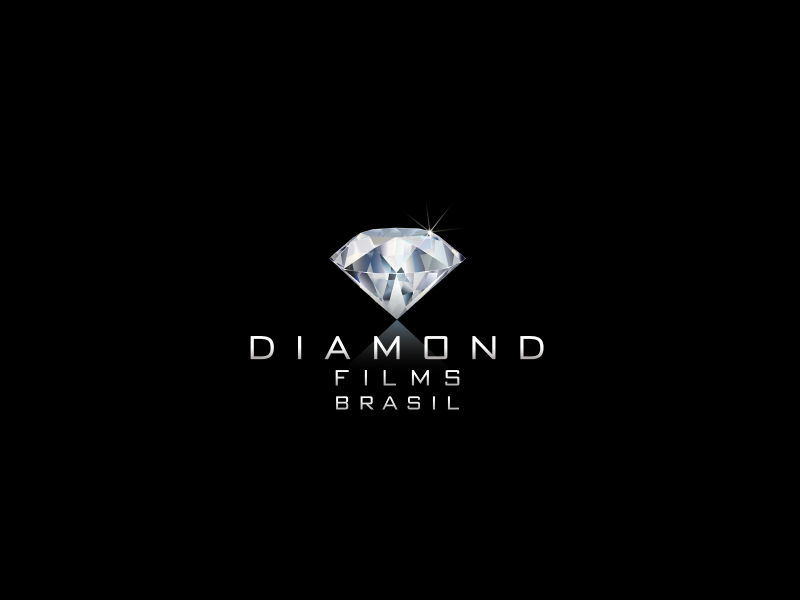
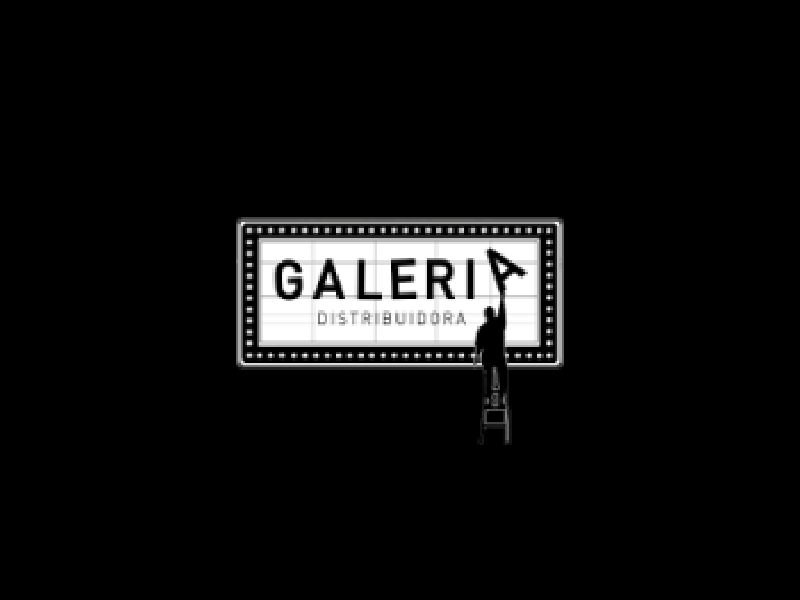
feat: update buid

Changed region(s): [[0.2812, 0.36, 0.7188, 0.75]]

diff --git a/utils/lib/gtag/index.ts b/utils/lib/gtag/index.ts
@@ -10,7 +10,7 @@ export const useGtag = () => {
       event: 'home',
       user_id_anonymous: id,
       city_id: cidade,
-      page_url: 'https://diamondfilms.com.br/' + page_url,
+      page_url: 'https://galeriadistribuidora.com.br/' + page_url,
       page_title: title,
       property_title: 'Site'
     })
@@ -26,7 +26,7 @@ export const useGtag = () => {
       event: 'ficha_filme',
       city_id: cidade,
       user_id_anonymous: id,
-      page_url: 'https://diamondfilms.com.br/' + page_url,
+      page_url: 'https://galeriadistribuidora.com.br/' + page_url,
       page_title: 'Galeria Distribuidora - ' + title,
       property_title: 'Site',
       pagina_filme: 'Hub',
@@ -46,7 +46,7 @@ export const useGtag = () => {
       event: 'banner_click',
       city_id: cidade,
       user_id_anonymous: id,
-      page_url: 'https://diamondfilms.com.br/' + page_url,
+      page_url: 'https://galeriadistribuidora.com.br/' + page_url,
       page_title: 'Galeria Distribuidora - ' + title,
       property_title: 'Site',
       banner_click_page: 'home',
@@ -69,7 +69,7 @@ export const useGtag = () => {
       event: 'movie_tickets',
       city_id: cidade,
       user_id_anonymous: id,
-      page_url: 'https://diamondfilms.com.br/' + page_url,
+      page_url: 'https://galeriadistribuidora.com.br/' + page_url,
       page_title: title,
       property_title: 'Site',
       moviename: title,
@@ -94,7 +94,7 @@ export const useGtag = () => {
       event: 'movie_stream',
       city_id: cidade,
       user_id_anonymous: id,
-      page_url: 'https://diamondfilms.com.br/' + page_url,
+      page_url: 'https://galeriadistribuidora.com.br/' + page_url,
       page_title: title,
       property_title: 'Site',
       moviename: title,
@@ -118,7 +118,7 @@ export const useGtag = () => {
       event: 'newsletter_subscribe',
       city_id: cidade,
       user_id_anonymous: id,
-      page_url: 'https://diamondfilms.com.br/' + page_url,
+      page_url: 'https://galeriadistribuidora.com.br/' + page_url,
       page_title: title,
       property_title: 'Site',
       pagina_filme: pagina_filme,
@@ -142,7 +142,7 @@ export const useGtag = () => {
       event: 'movie_subscribe',
       city_id: cidade,
       user_id_anonymous: id,
-      page_url: 'https://diamondfilms.com.br/' + page_url,
+      page_url: 'https://galeriadistribuidora.com.br/' + page_url,
       page_title: title,
       property_title: 'Site',
       pagina_filme: pagina_filme,
@@ -159,7 +159,7 @@ export const useGtag = () => {
       event: 'contato',
       city_id: cidade,
       user_id_anonymous: id,
-      page_url: 'https://diamondfilms.com.br/' + page_url,
+      page_url: 'https://galeriadistribuidora.com.br/' + page_url,
       page_title: title,
       property_title: 'Site'
     })
@@ -176,7 +176,7 @@ export const useGtag = () => {
       event: 'movie_select',
       city_id: cidade,
       user_id_anonymous: id,
-      page_url: 'https://diamondfilms.com.br/' + page_url,
+      page_url: 'https://galeriadistribuidora.com.br/' + page_url,
       page_title: 'Galeria Distribuidora - ' + 'Buscar',
       property_title: 'Site',
       moviename: title,
@@ -197,7 +197,7 @@ export const useGtag = () => {
       event: 'movie_filter',
       city_id: cidade,
       user_id_anonymous: id,
-      page_url: 'https://diamondfilms.com.br/' + page_url,
+      page_url: 'https://galeriadistribuidora.com.br/' + page_url,
       page_title: 'Galeria Distribuidora - ' + 'Buscar',
       property_title: 'Site',
       moviename: title,
@@ -218,7 +218,7 @@ export const useGtag = () => {
       event: 'play_trailer',
       city_id: cidade,
       user_id_anonymous: id,
-      page_url: 'https://diamondfilms.com.br/' + page_url,
+      page_url: 'https://galeriadistribuidora.com.br/' + page_url,
       page_title: title,
       property_title: 'Site',
       pagina_filme: pagina_filme,

diff --git a/components/templetes/Filme/index.tsx b/components/templetes/Filme/index.tsx
@@ -404,7 +404,7 @@ const Filme = (data: IFilmeProps) => {
                     >
                       <iframe
                         className={Style.embedResponsiveItem}
-                        src={`${data.url}?enablejsapi=1&origin=diamondfilms.com.br`}
+                        src={`${data.url}?enablejsapi=1&origin=galeriadistribuidora.com.br`}
                         title="YouTube video player"
                         frameBorder="0"
                         allow="accelerometer; autoplay; clipboard-write; encrypted-media; gyroscope; picture-in-picture; web-share"

diff --git a/app/layout.tsx b/app/layout.tsx
@@ -28,11 +28,11 @@ export const metadata: Metadata = {
   twitter: {
     title: 'Home | Galeria Distribuidora',
     description: "Descubra os filmes mais recentes distribuídos pela Galeria Distribuidora Brasil. Confira os trailers, sinopses e datas de lançamento.",
-    site: 'https://diamondfilms.com.br/',
+    site: 'https://galeriadistribuidora.com.br/',
     images: '/img/share.png'
   },
   alternates: {
-    canonical: 'http://diamondfilms.com.br'
+    canonical: 'http://galeriadistribuidora.com.br'
   },
   category: 'Filmes',
 

diff --git a/components/templetes/Catalogo/index.tsx b/components/templetes/Catalogo/index.tsx
@@ -41,7 +41,7 @@ const Catalogo: React.FC<ICatalogoProps> = ({ listaFilmes }) => {
   const handleGeneroChange = (event: React.ChangeEvent<HTMLSelectElement>) => {
     const novoGenero = event.target.value
     setFiltroGenero(novoGenero)
-    dataLayerMovieFilter('Filmes | Diamond Film', 'filmes', '', novoGenero, 0)
+    dataLayerMovieFilter('Filmes | Galeria Filmes', 'filmes', '', novoGenero, 0)
   }
 
   const handleAnoChange = (event: React.ChangeEvent<HTMLSelectElement>) => {

diff --git a/components/templetes/Home/index.tsx b/components/templetes/Home/index.tsx
@@ -51,7 +51,7 @@ const Home = ({ banner, listaFilmes }: IHomeProps) => {
 
   useEffect(() => {
     const pageView = () => {
-      dataLayerHome('Diamond Films', '')
+      dataLayerHome('Galeria Filmess', '')
     }
     pageView()
     // eslint-disable-next-line react-hooks/exhaustive-deps
